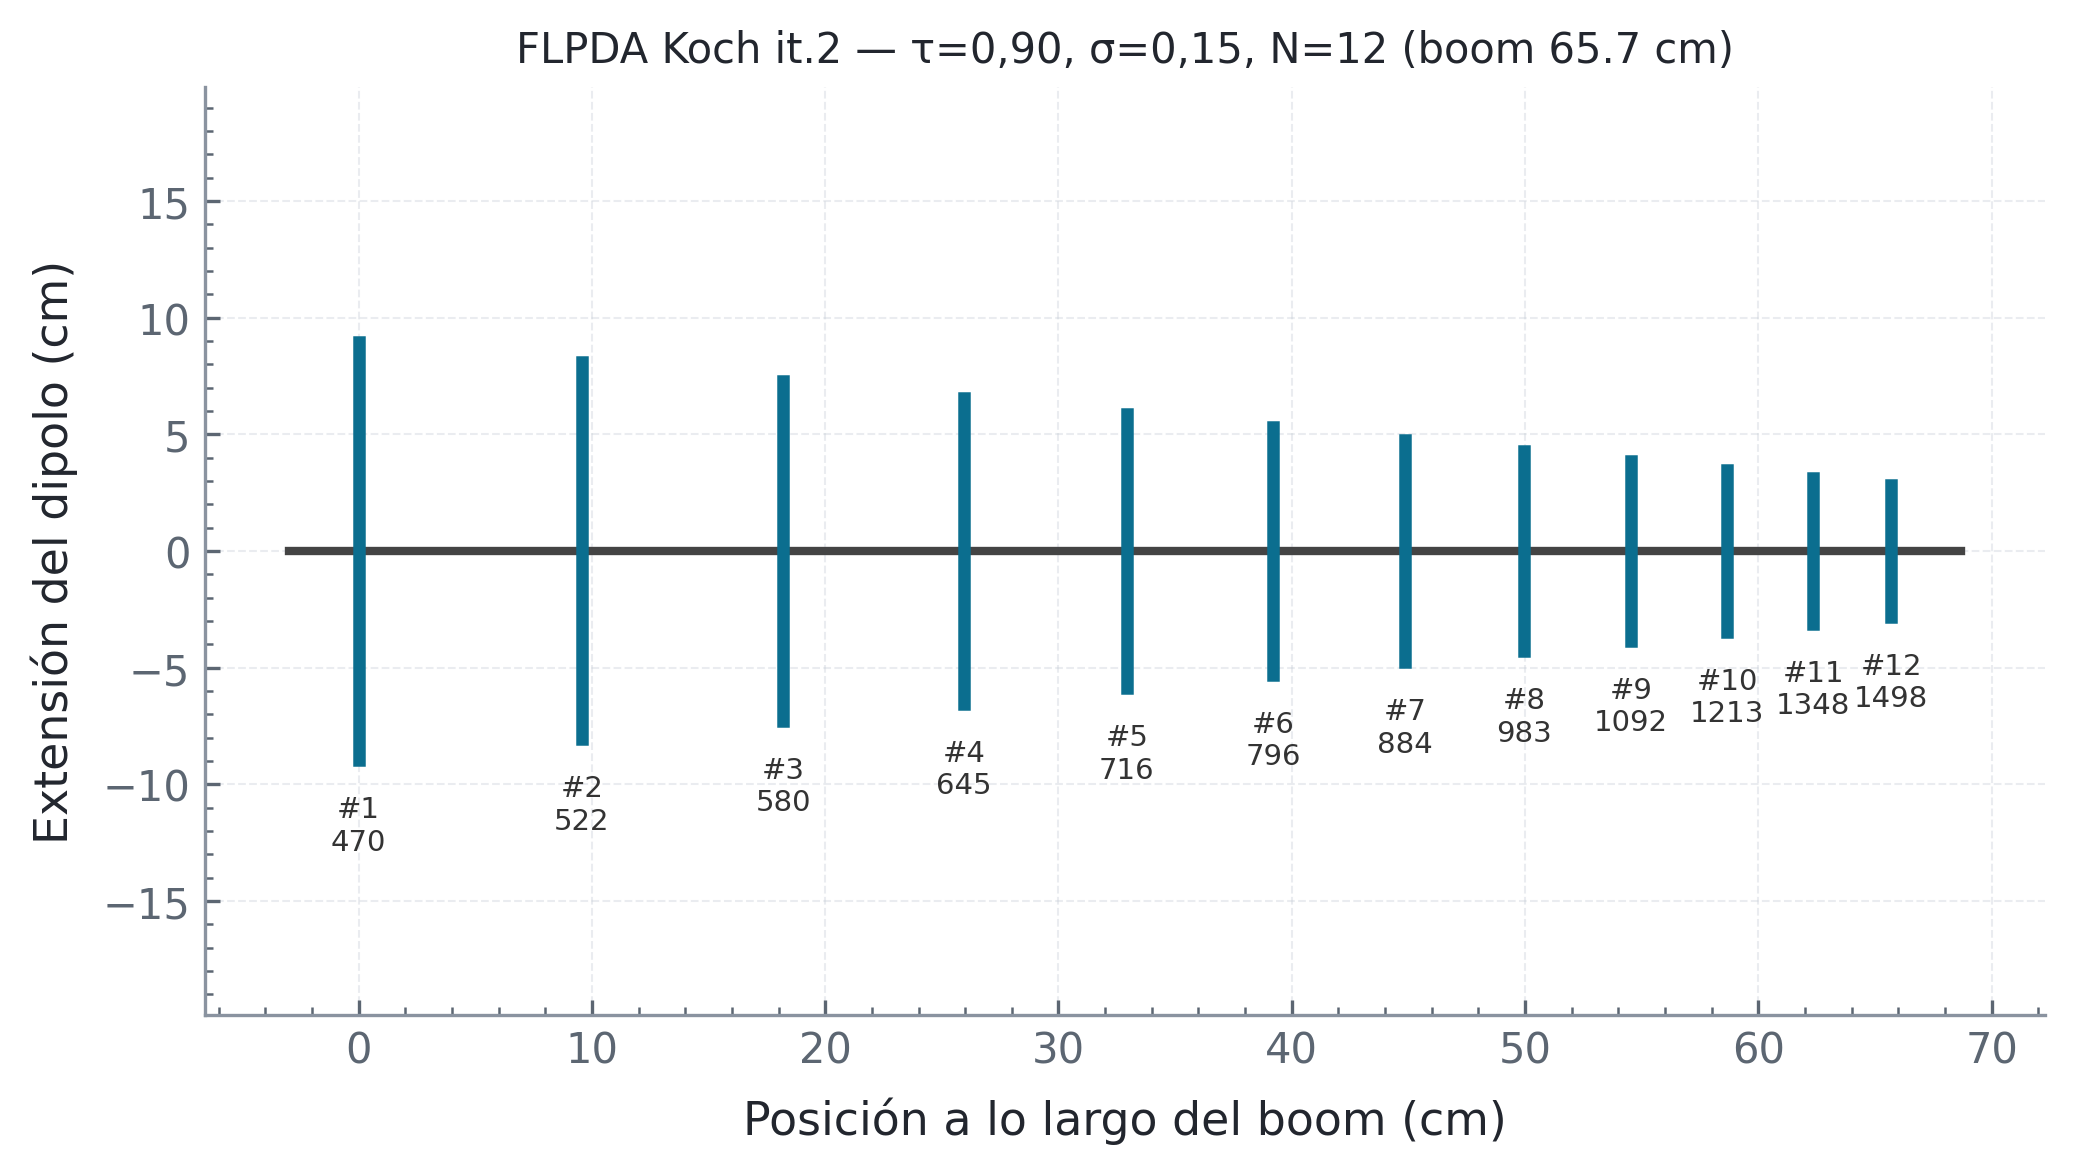
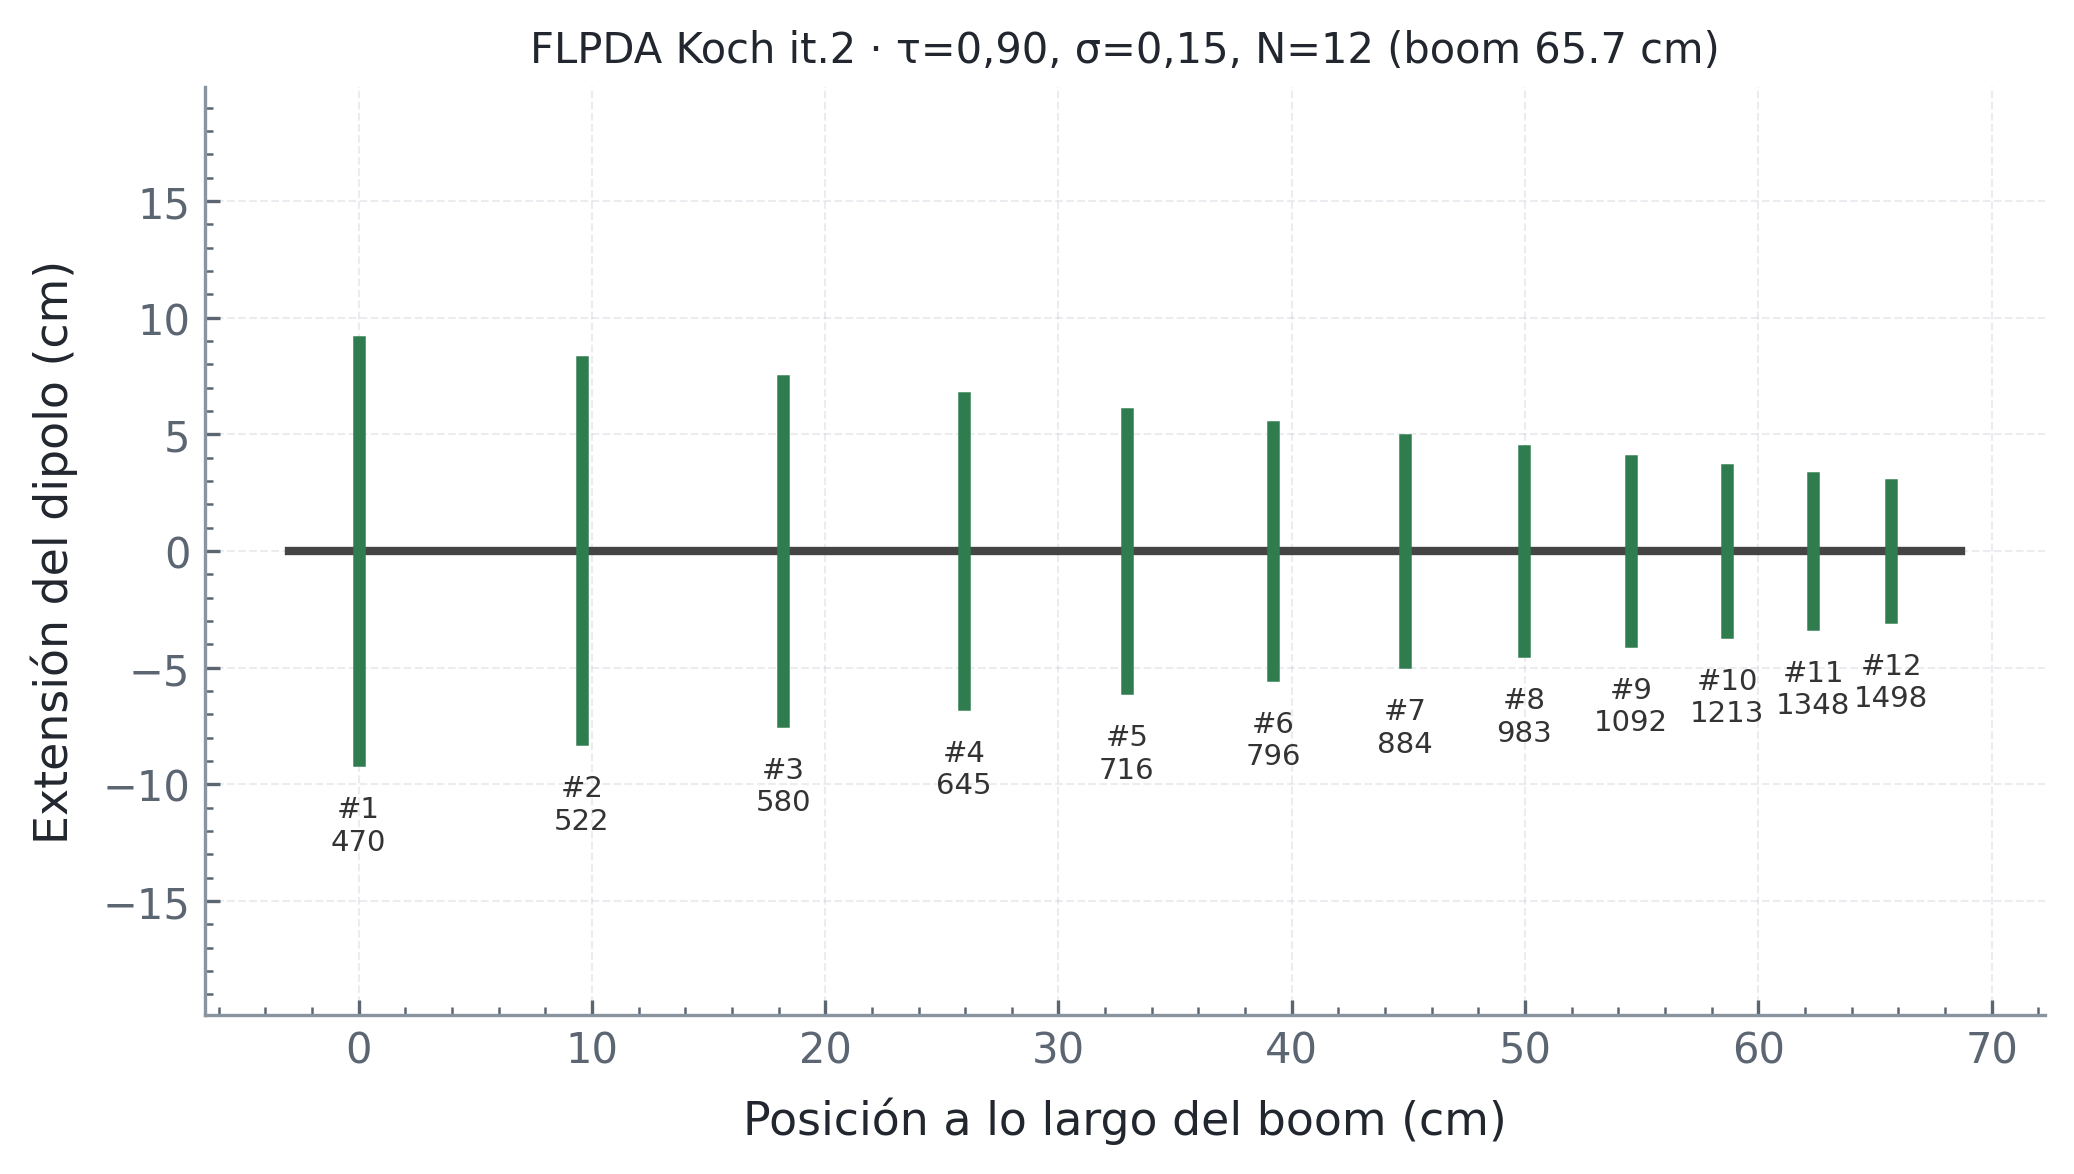
Figuras de geometría: Sierpinski (oro) nueva + FLPDA recoloreada a verde
fig12_geom_sierpinski (gasket it.3 con cotas 38,86×33,66 mm, εr=4,4 para
concordar con §3.4.1); fig04 recoloreada C_AZUL->C_VERDE (Escenario B) y
sin em-dash. Ambas integradas en el documento (Figuras 5 y 7).

diff --git a/_regen/generate_artifacts.py b/_regen/generate_artifacts.py
@@ -159,16 +159,46 @@ def fig04_geom_flpda():
     fig, ax = plt.subplots(figsize=(6.8, 3.8))
     ax.plot([pos[0] - 3, pos[-1] + 3], [0, 0], color="#444", lw=2)  # boom
     for i in range(len(pos)):
-        ax.plot([pos[i], pos[i]], [-Lp[i] / 2, Lp[i] / 2], color=C_AZUL, lw=3)
+        ax.plot([pos[i], pos[i]], [-Lp[i] / 2, Lp[i] / 2], color=C_VERDE, lw=3)
         ax.text(pos[i], -Lp[i] / 2 - 1.5, f"#{i+1}\n{res[i]:.0f}", fontsize=7,
                 ha="center", va="top", color="#333")
     ax.set_xlabel("Posición a lo largo del boom (cm)")
     ax.set_ylabel("Extensión del dipolo (cm)")
-    ax.set_title(f"FLPDA Koch it.2 — τ=0,90, σ=0,15, N={g['n_elements']} "
+    ax.set_title(f"FLPDA Koch it.2 · τ=0,90, σ=0,15, N={g['n_elements']} "
                  f"(boom {g['boom_cm']} cm)", fontsize=10)
     ax.set_aspect("equal", adjustable="datalim")
     _save(fig, "Fig04_geometria_FLPDA.png")
     return f"N={g['n_elements']} · boom={g['boom_cm']} cm · red. Koch −{g['reduccion_pct']}%"
+
+
+def fig12_geom_sierpinski():
+    """Geometría física del triángulo de Sierpinski it.3 (Escenario A), con cotas."""
+    from core.antenna import FractalAntenna
+    from configs.parametros import FR4_ER_1GHZ
+    from matplotlib.patches import Polygon as MplPoly
+    ant = FractalAntenna("sierpinski", iterations=3)
+    tris = ant.geometry_points()
+    # lado con εr=4,4 (consistente con §3.4.1 del documento: L_lado = 38,86 mm)
+    L = (3e8 / (ant.base_freq * np.sqrt(FR4_ER_1GHZ)) / 2.0) * 1000.0
+    H = L * np.sqrt(3) / 2.0           # altura [mm]
+    fig, ax = plt.subplots(figsize=(5.4, 4.8))
+    for tri in tris:
+        pts = [(p[0] * L, p[1] * L) for p in tri]
+        ax.add_patch(MplPoly(pts, closed=True, facecolor=C_A, edgecolor=C_A, lw=0.2))
+    ax.annotate("", xy=(0, -3), xytext=(L, -3),
+                arrowprops=dict(arrowstyle="<->", color="#444", lw=1))
+    ax.text(L / 2, -6, f"lado = {L:.2f} mm", ha="center", fontsize=8, color="#333")
+    ax.annotate("", xy=(L + 3, 0), xytext=(L + 3, H),
+                arrowprops=dict(arrowstyle="<->", color="#444", lw=1))
+    ax.text(L + 5, H / 2, f"altura = {H:.2f} mm", va="center", rotation=90, fontsize=8, color="#333")
+    ax.set_xlim(-5, L + 16)
+    ax.set_ylim(-9, H + 4)
+    ax.set_aspect("equal")
+    ax.set_xlabel("mm"); ax.set_ylabel("mm")
+    ax.grid(False)
+    ax.set_title(f"Triángulo de Sierpinski it.3 · lado {L:.2f} mm (f₀ = 1,84 GHz)", fontsize=10)
+    _save(fig, "Fig12_geom_sierpinski.png")
+    return f"Sierpinski it.3 · lado {L:.1f} mm · altura {H:.1f} mm · {len(tris)} triángulos"
 
 
 def fig05_cascada():
@@ -446,6 +476,7 @@ if __name__ == "__main__":
     _do("Fig 2 · η por banda A", fig02_eta_banda_A)
     _do("Fig 3 · S11 FLPDA", fig03_s11_flpda)
     _do("Fig 4 · Geometría FLPDA", fig04_geom_flpda)
+    _do("Fig 12 · Geometría Sierpinski", fig12_geom_sierpinski)
     _do("Fig 5 · Cascada RF→DC", fig05_cascada)
     _do("Fig 6 · P_DC vs distancia", fig06_pdc_dist)
     _do("Fig 7 · T_ciclo vs distancia", fig07_tciclo_dist)